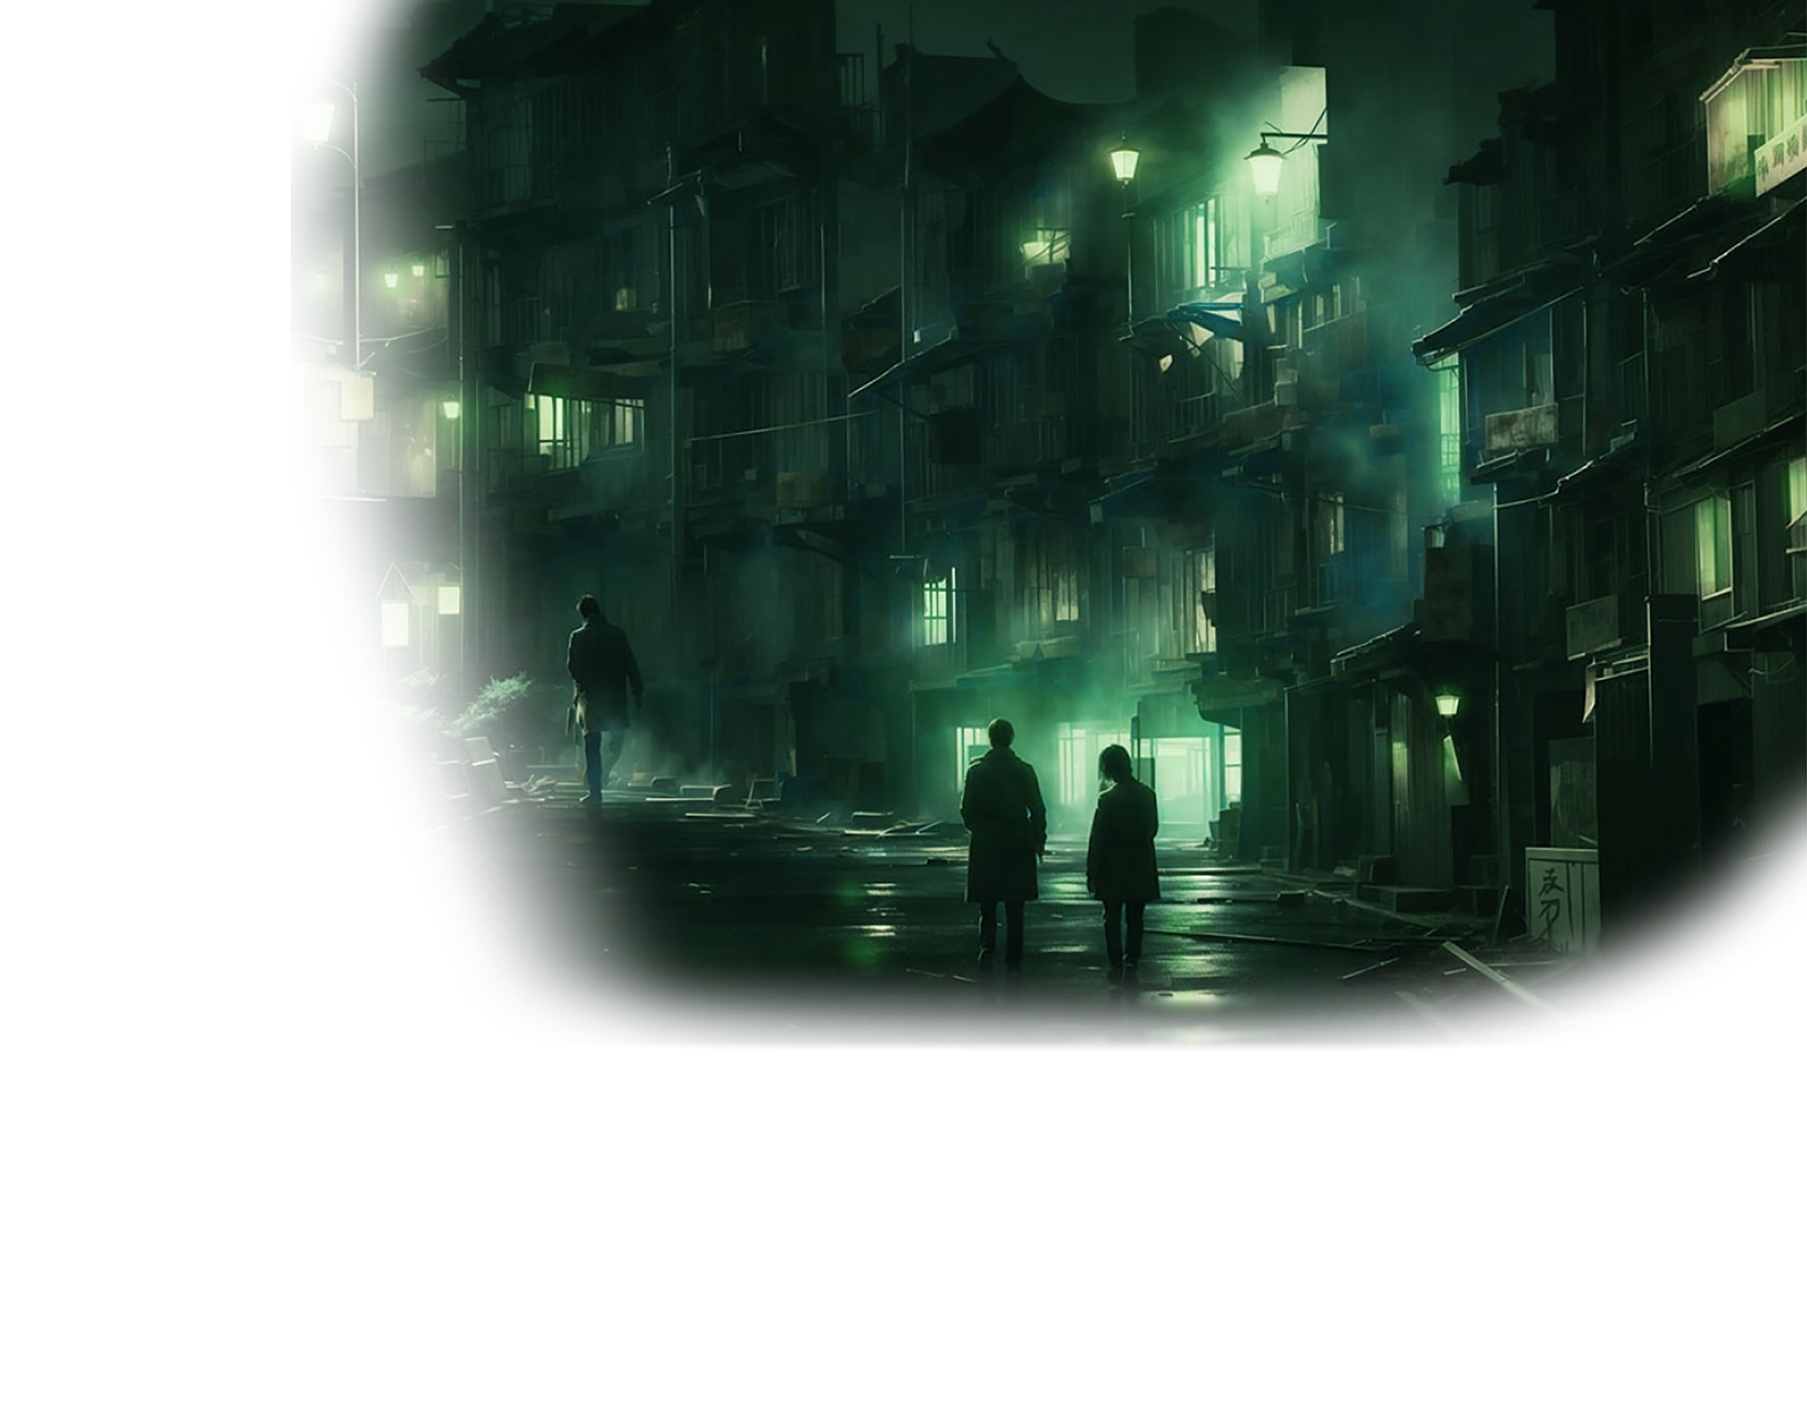
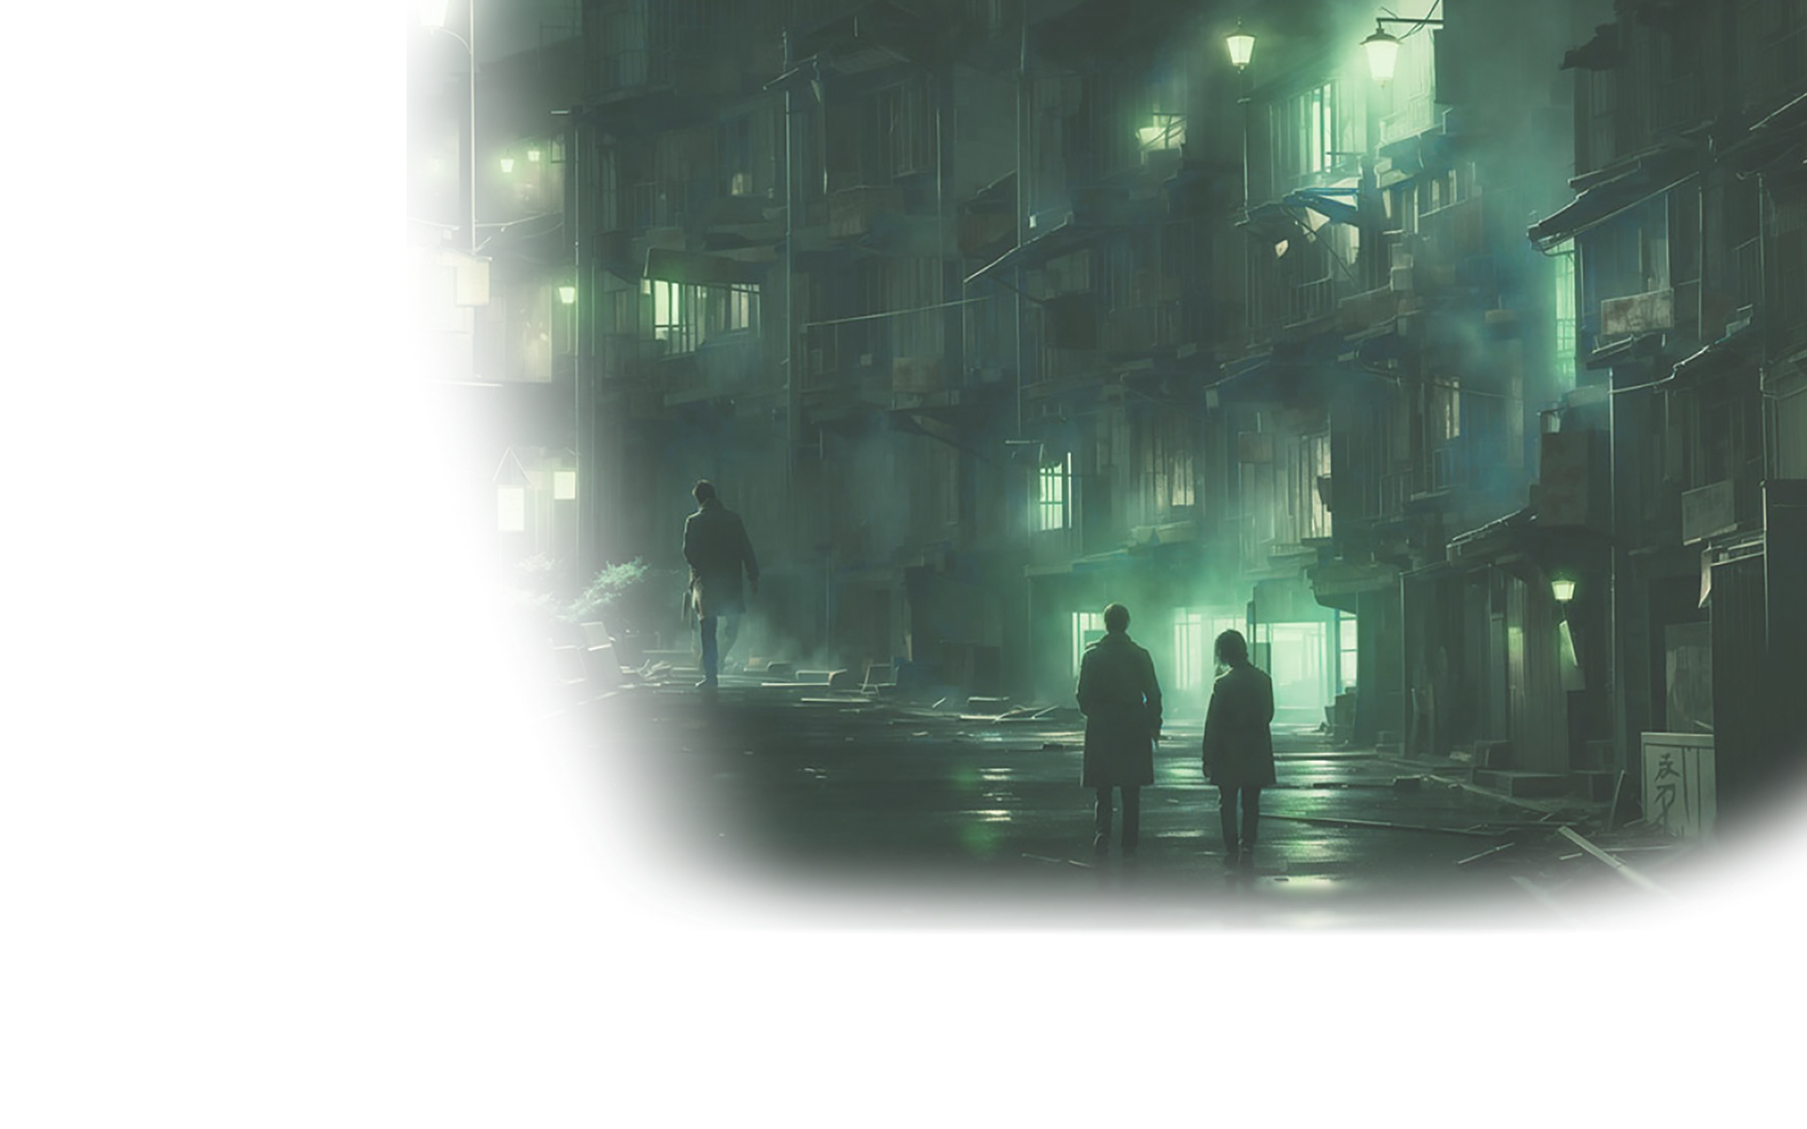
1206

diff --git a/home/css/style.min.css b/home/css/style.min.css
@@ -1,1 +1,1 @@
-@import"https://fonts.googleapis.com/css2?family=Inter:ital,opsz,wght@0,14..32,100..900;1,14..32,100..900&family=Noto+Sans+TC:wght@100..900&family=Playfair+Display:ital,wght@1,500&display=swap";html,body,div,span,applet,object,iframe,h1,h2,h3,h4,h5,h6,p,blockquote,pre,a,abbr,acronym,address,big,cite,code,del,dfn,em,img,ins,kbd,q,s,samp,small,strike,strong,sub,sup,tt,var,b,u,i,center,dl,dt,dd,ol,ul,li,fieldset,form,label,legend,table,caption,tbody,tfoot,thead,tr,th,td,article,aside,canvas,details,embed,figure,figcaption,footer,header,hgroup,menu,nav,output,ruby,section,summary,time,mark,audio,video{margin:0;padding:0;border:0;font-size:100%;font-family:-apple-system,BlinkMacSystemFont,"Segoe UI",Roboto,Ubuntu,"Helvetica Neue",Helvetica,Arial,"蘋方-繁","PingFang TC","黑體-繁","Heiti TC","微軟正黑體","Microsoft JhengHei","Noto Sans TC",sans-serif;font-optical-sizing:auto;line-height:1.5}h1,h2,h3,h4,h5,h6{font-weight:normal}img{display:block;width:100%}ul,ol{list-style-type:none;padding:0;margin:0}a{display:block;color:#666;text-decoration:none}textarea{width:100%}::-webkit-scrollbar{height:12px;background-color:#2a2a2a;border-radius:99px}::-webkit-scrollbar-button{background:#b3b3b3;width:12px;height:12px}::-webkit-scrollbar-thumb{background:rgba(0,0,0,0);border:1px solid #b595ff}::-webkit-scrollbar-track{background:#2a2a2a}::-webkit-scrollbar-corner{background:#b3b3b3}::-webkit-resizer{background:#acff6c}@keyframes rotate{0%{transform:rotate(0deg) translate3d(0, 0, 0)}25%{transform:rotate(3deg) translate3d(0, 0, 0)}50%{transform:rotate(-3deg) translate3d(0, 0, 0)}75%{transform:rotate(1deg) translate3d(0, 0, 0)}100%{transform:rotate(0deg) translate3d(0, 0, 0)}}@keyframes storm{0%{transform:translate3d(0, 0, 0) translateZ(0)}25%{transform:translate3d(4px, 0, 0) translateZ(0)}50%{transform:translate3d(-3px, 0, 0) translateZ(0)}75%{transform:translate3d(2px, 0, 0) translateZ(0)}100%{transform:translate3d(0, 0, 0) translateZ(0)}}body{font-family:"Noto Sans TC";font-size:100%;line-height:1.5;background-color:#333}h1,h2,h3,h4,h5,h6{font-weight:normal}ul,ol{list-style:none}img{display:block;width:100%;max-width:100%;height:auto}a{display:block;text-decoration:none;color:#fff}.Topbar{margin:0;margin-top:0;width:100%;height:110px;display:flex;padding:10px 0px;align-items:flex-end;justify-content:space-between}.logo{width:240px;margin-right:20px;display:flex;align-items:center}.logo:hover{background-color:rgba(255,255,255,.2);border-radius:10px}.logo img{width:40px;margin:8px}.logoText{font-family:"Roboto";font-size:28px;color:#acff6c}.Topbar-right{display:flex;padding:0;align-items:center;margin-left:115px}.member{display:flex;color:#b595ff;margin-left:20px;margin:8px;margin-bottom:5px}.member:hover{background-color:rgba(255,255,255,.2);border-radius:10px}.member a{color:#b595ff;font-weight:400}.navigation{width:277px;display:flex;align-items:center}.navigation #Group{margin:10px;width:26px}.navigation #menu{width:64px;margin-left:15px}:root{--primary-green: #acff6c;--Neutral-grey: #B3B3B3;--Neutral-Black: #2A2A2A;--Neutral-White: #FFFFFF}body{background-color:var(--Neutral-Black);color:var(--Neutral-White);font-family:"Noto Sans TC",sans-serif}.forum-container{padding:20px 0px}.top-bar{display:flex;align-items:center;justify-content:space-between;margin-bottom:30px}.nav-buttons{display:flex;gap:20px}.nav-button{color:var(--primary-green);border:none;background:none;cursor:pointer;font-size:18px;letter-spacing:2.7px}.nav-button div{display:flex}.home .banner{position:relative;background-image:url("../public/images/home_banner.png");background-size:100%;background-position:right top;background-repeat:no-repeat;width:100%;min-height:160vh}.home .banner .logoXL{width:30%;margin-top:130px;margin-left:132px;display:flex;justify-content:flex-end}.home .banner .logoXL img{width:100%;animation:glowEffect 5s linear infinite}.home .banner .logoXL p{color:#acff6c;font-family:"Inter",serif;font-size:12px;letter-spacing:18px;margin-left:46px;margin-top:20px}.home .banner .logoXL #mark{width:80px;margin-left:318px;animation:rotateY 6s ease-in-out infinite,glowEffect 5s linear infinite}.home .intro{width:100%}.home .intro .intro1{display:flex;justify-content:center}.home .intro .intro1 .door{position:relative;width:940px;height:100vh}.home .intro .intro1 .door img{width:100%;height:auto}.home .intro .intro1 .door #intro_Q{position:absolute;top:0;right:20px;width:355px;display:column}.home .intro .intro1 .door #intro_Q p{margin-top:30px;margin-left:21px}@keyframes glowEffect{0%{filter:drop-shadow(0 0 5px #acff6c) drop-shadow(0 0 10px #acff6c);opacity:1}50%{filter:drop-shadow(0 0 20px rgba(172, 255, 108, 0.3764705882)) drop-shadow(0 0 30px rgba(172, 255, 108, 0.3764705882));opacity:1}100%{filter:drop-shadow(0 0 5px #acff6c) drop-shadow(0 0 10px #acff6c);opacity:1}}.glowing-text span{position:relative;animation:glowEffect 1.5s ease-in-out infinite,colorChange 2s ease-in-out infinite}@keyframes rotateY{0%{transform:rotateY(0deg)}100%{transform:rotateY(360deg)}}@keyframes colorChange{0%{color:#acff6c}33%{color:#fff}66%{color:#deff67}100%{color:#acff6c}}/*# sourceMappingURL=style.min.css.map */
+@import"https://fonts.googleapis.com/css2?family=Inter:ital,opsz,wght@0,14..32,100..900;1,14..32,100..900&family=Noto+Sans+TC:wght@100..900&family=Playfair+Display:ital,wght@1,500&display=swap";html,body,div,span,applet,object,iframe,h1,h2,h3,h4,h5,h6,p,blockquote,pre,a,abbr,acronym,address,big,cite,code,del,dfn,em,img,ins,kbd,q,s,samp,small,strike,strong,sub,sup,tt,var,b,u,i,center,dl,dt,dd,ol,ul,li,fieldset,form,label,legend,table,caption,tbody,tfoot,thead,tr,th,td,article,aside,canvas,details,embed,figure,figcaption,footer,header,hgroup,menu,nav,output,ruby,section,summary,time,mark,audio,video{margin:0;padding:0;border:0;font-size:100%;font-family:-apple-system,BlinkMacSystemFont,"Segoe UI",Roboto,Ubuntu,"Helvetica Neue",Helvetica,Arial,"蘋方-繁","PingFang TC","黑體-繁","Heiti TC","微軟正黑體","Microsoft JhengHei","Noto Sans TC",sans-serif;font-optical-sizing:auto;line-height:1.5}h1,h2,h3,h4,h5,h6{font-weight:normal}img{display:block;width:100%}ul,ol{list-style-type:none;padding:0;margin:0}a{display:block;color:#666;text-decoration:none}textarea{width:100%}::-webkit-scrollbar{height:12px;background-color:#2a2a2a;border-radius:99px}::-webkit-scrollbar-button{background:#b3b3b3;width:12px;height:12px}::-webkit-scrollbar-thumb{background:rgba(0,0,0,0);border:1px solid #b595ff}::-webkit-scrollbar-track{background:#2a2a2a}::-webkit-scrollbar-corner{background:#b3b3b3}::-webkit-resizer{background:#acff6c}.home .intro .intro2 .title{display:flex;justify-content:center;align-items:center}@keyframes rotate{0%{transform:rotate(0deg) translate3d(0, 0, 0)}25%{transform:rotate(3deg) translate3d(0, 0, 0)}50%{transform:rotate(-3deg) translate3d(0, 0, 0)}75%{transform:rotate(1deg) translate3d(0, 0, 0)}100%{transform:rotate(0deg) translate3d(0, 0, 0)}}@keyframes storm{0%{transform:translate3d(0, 0, 0) translateZ(0)}25%{transform:translate3d(4px, 0, 0) translateZ(0)}50%{transform:translate3d(-3px, 0, 0) translateZ(0)}75%{transform:translate3d(2px, 0, 0) translateZ(0)}100%{transform:translate3d(0, 0, 0) translateZ(0)}}body{font-family:"Noto Sans TC";font-size:100%;line-height:1.5;background-color:#333}h1,h2,h3,h4,h5,h6{font-weight:normal}ul,ol{list-style:none}img{display:block;width:100%;max-width:100%;height:auto}a{display:block;text-decoration:none;color:#fff}.Topbar{margin:0;margin-top:0;width:100%;height:110px;display:flex;padding:10px 0px;align-items:flex-end;justify-content:space-between}.logo{width:240px;margin-right:20px;display:flex;align-items:center}.logo:hover{background-color:rgba(255,255,255,.2);border-radius:10px}.logo img{width:40px;margin:8px}.logoText{font-family:"Roboto";font-size:28px;color:#acff6c}.Topbar-right{display:flex;padding:0;align-items:center;margin-left:115px}.member{display:flex;color:#b595ff;margin-left:20px;margin:8px;margin-bottom:5px}.member:hover{background-color:rgba(255,255,255,.2);border-radius:10px}.member a{color:#b595ff;font-weight:400}.navigation{width:277px;display:flex;align-items:center}.navigation #Group{margin:10px;width:26px}.navigation #menu{width:64px;margin-left:15px}:root{--primary-green: #acff6c;--Neutral-grey: #B3B3B3;--Neutral-Black: #2A2A2A;--Neutral-White: #FFFFFF}body{background-color:var(--Neutral-Black);color:var(--Neutral-White);font-family:"Noto Sans TC",sans-serif}.forum-container{padding:20px 0px}.top-bar{display:flex;align-items:center;justify-content:space-between;margin-bottom:30px}.nav-buttons{display:flex;gap:20px}.nav-button{color:var(--primary-green);border:none;background:none;cursor:pointer;font-size:18px;letter-spacing:2.7px}.nav-button div{display:flex}.home .banner{position:relative;background-image:url("../public/images/home_banner.png");background-size:100%;background-position:right top;background-repeat:no-repeat;width:100%;min-height:130vh}.home .banner .logoXL{width:30%;margin-top:130px;margin-left:132px;display:flex;justify-content:flex-end}.home .banner .logoXL img{width:100%;animation:glowEffect 5s linear infinite}.home .banner .logoXL p{color:#acff6c;font-family:"Inter",serif;font-size:12px;letter-spacing:18px;margin-left:46px;margin-top:20px}.home .banner .logoXL #mark{width:80px;margin-left:318px;animation:rotateY 6s ease-in-out infinite,glowEffect 5s linear infinite}@media(max-width: 1920px){.home .banner{height:62.5vh}}.home .intro{width:100%}.home .intro .intro1{display:flex;justify-content:center;position:relative;z-index:10;min-height:100vh}.home .intro .intro1 .door{position:relative;width:940px;height:100vh}.home .intro .intro1 .door figure{animation:glowEffect-W 3s linear infinite}.home .intro .intro1 .door img{width:100%;height:auto}.home .intro .intro1 .door #intro_Q{position:absolute;top:0;right:20px;width:355px;display:column}.home .intro .intro1 .door #intro_Q p{margin-top:30px;margin-left:21px}.home .intro .intro2{top:0;perspective:1000px;perspective-origin:center;mix-blend-mode:lighten;margin-top:0;height:100vh;isolation:isolate;transform-style:preserve-3d;text-align:center}.home .intro .intro2 .title{flex-direction:column;position:relative;margin-top:60px;left:0px;margin-bottom:24px;z-index:2}.home .intro .intro2 .mid{transform:translateZ(-2.5px) translateY(-3.5vh) scale(1.5);z-index:1;position:absolute;top:-60vh;left:100px;mix-blend-mode:lighten}.home .intro .intro2 .mid img{width:100%;overflow:visible;object-fit:cover;opacity:100%}.home .intro .intro2 .far{transform:translateZ(-0.5px) translateY(-1vh) scale(1.5);position:relative}.home .intro .intro2 .far img{position:absolute;top:-40vh;left:0;width:100%;z-index:-2;overflow:hidden;object-fit:cover;opacity:100%}@keyframes glowEffect{0%{filter:drop-shadow(0 0 5px #acff6c) drop-shadow(0 0 10px rgba(172, 255, 108, 0.6745098039));opacity:1}50%{filter:drop-shadow(0 0 20px rgba(172, 255, 108, 0.1490196078)) drop-shadow(0 0 30px rgba(172, 255, 108, 0.0431372549));opacity:.8}100%{filter:drop-shadow(0 0 5px #acff6c) drop-shadow(0 0 10px rgba(172, 255, 108, 0.6745098039));opacity:1}}@keyframes glowEffect-W{0%{filter:drop-shadow(0 0 5px #ffffff) drop-shadow(0 0 10px rgba(255, 255, 255, 0.3294117647));opacity:1}50%{filter:drop-shadow(0 0 20px rgba(172, 255, 108, 0.1490196078)) drop-shadow(0 0 30px rgba(172, 255, 108, 0.0431372549));opacity:.5}100%{filter:drop-shadow(0 0 5px #ffffff) drop-shadow(0 0 10px rgba(255, 255, 255, 0.3294117647));opacity:1}}.glowing-text span{position:relative;animation:glowEffect 1.5s ease-in-out infinite,colorChange 2s ease-in-out infinite}@keyframes rotateY{0%{transform:rotateY(0deg)}100%{transform:rotateY(360deg)}}@keyframes colorChange{0%{color:#acff6c}33%{color:#fff}66%{color:#deff67}100%{color:#acff6c}}/*# sourceMappingURL=style.min.css.map */

diff --git a/home/src/style.scss b/home/src/style.scss
@@ -1,6 +1,6 @@
 @use 'reset';
-@use 'variables' as *;
-@use 'function' as *;
+@use 'variables'as *;
+@use 'function'as *;
 @use 'keyframes';
 
 
@@ -220,7 +220,8 @@ body {
     background-repeat: no-repeat;
 
     width: 100%;
-    min-height: 160vh;
+    min-height: 130vh;
+
 
     // border:1px solid #B3B3B3;
 
@@ -263,37 +264,40 @@ body {
 
   }
 
+  @media (max-width:1920px) {
+    .banner {
+      height: calc(100vh*1200/1920);
+    }
+  }
+
   .intro {
-
-
     width: 100%;
-
-
 
     .intro1 {
       display: flex;
       justify-content: center;
+      position: relative;
+      z-index: 10;
+      min-height: 100vh;
 
       .door {
         position: relative;
         width: 940px;
         height: 100vh;
-        
-        
 
-
-
+        figure {
+          animation: glowEffect-W 3s linear infinite;
+        }
 
         img {
           width: 100%;
           height: auto;
-          
         }
 
         #intro_Q {
           position: absolute;
-          top:0;
-          right:20px;
+          top: 0;
+          right: 20px;
           width: 355px;
           display: column;
 
@@ -301,11 +305,82 @@ body {
             margin-top: 30px;
             margin-left: 21px;
           }
+        }
+      }
+    }
 
+    .intro2 {
+      
+      top: 0;
+      /* 保持在 intro1 下面 */
+
+      perspective: 1000px;
+      perspective-origin: center;
+      mix-blend-mode: lighten;
+
+      margin-top: 0;
+      height: 100vh;
+      isolation: isolate;
+      transform-style: preserve-3d;
+      text-align: center;
+
+      .title {
+        @extend %box-center;
+        flex-direction: column;
+
+        position: relative;
+        margin-top: 60px;
+        left: 0px;
+        margin-bottom: $interval-l;
+        z-index: 2;
+      }
+
+
+
+      .mid {
+        transform: translateZ(-2.5px) translateY(-3.5vh) scale(1.5);
+        z-index: 1;
+        position: absolute;
+        top: -60vh;
+        left: 100px;
+    
+        mix-blend-mode: lighten;
+        // border: #acff6c 1px solid;
+
+        img {
+          width: 100%;
+          overflow: visible;
+          object-fit: cover;
+          opacity: 100%;
+        
+
+
+
+        }
+
+      }
+
+
+      .far {
+        transform: translateZ(-.5px) translateY(-1vh) scale(1.5);
+        position: relative;
+       
+        // border: #ffffff 1px solid;
+
+        img {
+          position: absolute;
+          top: -40vh;
+          left: 0;
+          width: 100%;
+          z-index: -2;
+          overflow: hidden;
+          object-fit: cover;
+          opacity: 100%;
         }
       }
     }
   }
+
 }
 
 
@@ -314,20 +389,40 @@ body {
 
 @keyframes glowEffect {
   0% {
-    filter: drop-shadow(0 0 5px #acff6c) drop-shadow(0 0 10px #acff6c);
+    filter: drop-shadow(0 0 5px #acff6c) drop-shadow(0 0 10px #acff6cac);
     opacity: 1;
   }
 
   50% {
-    filter: drop-shadow(0 0 20px #acff6c60) drop-shadow(0 0 30px #acff6c60);
-    opacity: 1;
+    filter: drop-shadow(0 0 20px #acff6c26) drop-shadow(0 0 30px #acff6c0b);
+    opacity: 0.8;
   }
 
   100% {
-    filter: drop-shadow(0 0 5px #acff6c) drop-shadow(0 0 10px #acff6c);
+    filter: drop-shadow(0 0 5px #acff6c) drop-shadow(0 0 10px #acff6cac);
     opacity: 1;
   }
 }
+
+/* 動畫效果 */
+/* glowEffect 5s linear infinite(發光效果放入css) */
+@keyframes glowEffect-W {
+  0% {
+    filter: drop-shadow(0 0 5px #ffffff) drop-shadow(0 0 10px #ffffff54);
+    opacity: 1;
+  }
+
+  50% {
+    filter: drop-shadow(0 0 20px #acff6c26) drop-shadow(0 0 30px #acff6c0b);
+    opacity: 0.5;
+  }
+
+  100% {
+    filter: drop-shadow(0 0 5px #ffffff) drop-shadow(0 0 10px #ffffff54);
+    opacity: 1;
+  }
+}
+
 
 /* 設定字輪流變色時使用 */
 .glowing-text span {

diff --git a/home/css/style.css b/home/css/style.css
@@ -153,6 +153,12 @@ textarea {
   background: #acff6c;
 }
 
+.home .intro .intro2 .title {
+  display: flex;
+  justify-content: center;
+  align-items: center;
+}
+
 @keyframes rotate {
   0% {
     transform: rotate(0deg) translate3d(0, 0, 0);
@@ -361,7 +367,7 @@ body {
   background-position: right top;
   background-repeat: no-repeat;
   width: 100%;
-  min-height: 160vh;
+  min-height: 130vh;
 }
 .home .banner .logoXL {
   width: 30%;
@@ -388,17 +394,28 @@ body {
   animation: rotateY 6s ease-in-out infinite, glowEffect 5s linear infinite;
   /* 設定動畫 */
 }
+@media (max-width: 1920px) {
+  .home .banner {
+    height: 62.5vh;
+  }
+}
 .home .intro {
   width: 100%;
 }
 .home .intro .intro1 {
   display: flex;
   justify-content: center;
+  position: relative;
+  z-index: 10;
+  min-height: 100vh;
 }
 .home .intro .intro1 .door {
   position: relative;
   width: 940px;
   height: 100vh;
+}
+.home .intro .intro1 .door figure {
+  animation: glowEffect-W 3s linear infinite;
 }
 .home .intro .intro1 .door img {
   width: 100%;
@@ -415,20 +432,84 @@ body {
   margin-top: 30px;
   margin-left: 21px;
 }
+.home .intro .intro2 {
+  top: 0;
+  /* 保持在 intro1 下面 */
+  perspective: 1000px;
+  perspective-origin: center;
+  mix-blend-mode: lighten;
+  margin-top: 0;
+  height: 100vh;
+  isolation: isolate;
+  transform-style: preserve-3d;
+  text-align: center;
+}
+.home .intro .intro2 .title {
+  flex-direction: column;
+  position: relative;
+  margin-top: 60px;
+  left: 0px;
+  margin-bottom: 24px;
+  z-index: 2;
+}
+.home .intro .intro2 .mid {
+  transform: translateZ(-2.5px) translateY(-3.5vh) scale(1.5);
+  z-index: 1;
+  position: absolute;
+  top: -60vh;
+  left: 100px;
+  mix-blend-mode: lighten;
+}
+.home .intro .intro2 .mid img {
+  width: 100%;
+  overflow: visible;
+  object-fit: cover;
+  opacity: 100%;
+}
+.home .intro .intro2 .far {
+  transform: translateZ(-0.5px) translateY(-1vh) scale(1.5);
+  position: relative;
+}
+.home .intro .intro2 .far img {
+  position: absolute;
+  top: -40vh;
+  left: 0;
+  width: 100%;
+  z-index: -2;
+  overflow: hidden;
+  object-fit: cover;
+  opacity: 100%;
+}
 
 /* 動畫效果 */
 /* glowEffect 5s linear infinite(發光效果放入css) */
 @keyframes glowEffect {
   0% {
-    filter: drop-shadow(0 0 5px #acff6c) drop-shadow(0 0 10px #acff6c);
+    filter: drop-shadow(0 0 5px #acff6c) drop-shadow(0 0 10px rgba(172, 255, 108, 0.6745098039));
     opacity: 1;
   }
   50% {
-    filter: drop-shadow(0 0 20px rgba(172, 255, 108, 0.3764705882)) drop-shadow(0 0 30px rgba(172, 255, 108, 0.3764705882));
-    opacity: 1;
+    filter: drop-shadow(0 0 20px rgba(172, 255, 108, 0.1490196078)) drop-shadow(0 0 30px rgba(172, 255, 108, 0.0431372549));
+    opacity: 0.8;
   }
   100% {
-    filter: drop-shadow(0 0 5px #acff6c) drop-shadow(0 0 10px #acff6c);
+    filter: drop-shadow(0 0 5px #acff6c) drop-shadow(0 0 10px rgba(172, 255, 108, 0.6745098039));
+    opacity: 1;
+  }
+}
+/* 動畫效果 */
+/* glowEffect 5s linear infinite(發光效果放入css) */
+@keyframes glowEffect-W {
+  0% {
+    filter: drop-shadow(0 0 5px #ffffff) drop-shadow(0 0 10px rgba(255, 255, 255, 0.3294117647));
+    opacity: 1;
+  }
+  50% {
+    filter: drop-shadow(0 0 20px rgba(172, 255, 108, 0.1490196078)) drop-shadow(0 0 30px rgba(172, 255, 108, 0.0431372549));
+    opacity: 0.5;
+  }
+  100% {
+    filter: drop-shadow(0 0 5px #ffffff) drop-shadow(0 0 10px rgba(255, 255, 255, 0.3294117647));
     opacity: 1;
   }
 }

diff --git a/home/src/App.jsx b/home/src/App.jsx
@@ -38,7 +38,7 @@ function App() {
 
           <div className="intro1">
             <div className='door'>
-            <figure> <img src="/images/door.png" /></figure>
+              <figure> <img src="/images/door.png" /></figure>
               <div id="intro_Q">
                 <img src="/images/intro_Q.svg" alt="準備好要探索未知了嗎?" />
                 <p>
@@ -49,10 +49,39 @@ function App() {
                   準備好面對未知的恐懼吧！<br />
                 </p>
               </div>
+            </div>
+          </div>
 
+          <div className="intro2">
+            <header className="title">
+              <h2>怪談博物館</h2>
+              <h3>精選靈異故事、都市傳說，帶你進入未知世界，享受身歷其境的驚悚與神秘氛圍。</h3>
+            </header>
+
+            {/* 中紙 */}
+            <div className="mid">
+              <img src="/images/paper_1.png" alt="" />
+            </div>
+
+
+            {/* 遠紙 */}
+            <div className="far">
+              <img src="/images/paper_2.png" alt="" />
+            </div>
+
+            {/* 前景相簿 */}
+            <div className="close">
 
             </div>
           </div>
+
+
+
+          <div className="intro3">
+
+          </div>
+
+
 
 
         </section>
